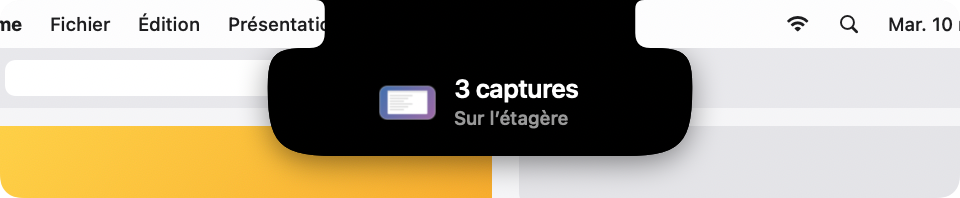
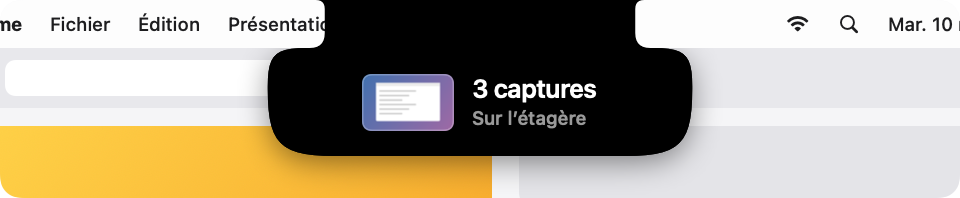
Capture d'écran sur l'étagère : la miniature à ses proportions, assez grande, coins arrondis
Retour de Hugues : dans la bulle « Capture d'écran · Sur l'étagère », l'image était minuscule et mal cadrée (une capture 16:10
tassée dans un carré de 38 pt : 38 × 24, lue à 96 px). Maintenant la hauteur des deux lignes (38 pt), la largeur selon ses
proportions (64 pt au plus, 26 au moins), lue à 192 px (Retina), coins de 6 pt et filet clair dessinés par la vue ; la place
du symbole de l'annonce suit cette largeur (mesure comprise). Rendus : ilot-14e et 14f (encoche), lucarne-ecran-capture
(verre, avec une fausse capture 16:10 dans le catalogue des écrans de l'essai).

Changed region(s): [[0.375, 0.3636, 0.625, 0.6667]]

diff --git a/Sources/Dictee/IlotEtagere.swift b/Sources/Dictee/IlotEtagere.swift
@@ -385,23 +385,16 @@ extension IlotControleur {
                                              ligne2: RafaleCaptures.sousTitre, vignette: Self.vignetteCapture(url), capture: url))
     }
 
-    /// La miniature d'une capture (lue à 96 px, coins arrondis, un filet clair) ; illisible : l'icône du Finder.
+    /// La miniature d'une capture : à ses proportions dans la place de l'annonce (`MiniatureCapture`), lue assez grande pour un écran
+    /// Retina (3 × sa largeur en pixels) ; illisible : l'icône du Finder. Les coins et le filet sont dessinés par la vue.
     nonisolated static func vignetteCapture(_ url: URL) -> NSImage {
-        let options: [CFString: Any] = [kCGImageSourceCreateThumbnailFromImageAlways: true, kCGImageSourceThumbnailMaxPixelSize: 96,
+        let options: [CFString: Any] = [kCGImageSourceCreateThumbnailFromImageAlways: true, kCGImageSourceThumbnailMaxPixelSize: Int(3 * MiniatureCapture.largeurMax),
                                         kCGImageSourceCreateThumbnailWithTransform: true]
         guard let s = CGImageSourceCreateWithURL(url as CFURL, nil), let cg = CGImageSourceCreateThumbnailAtIndex(s, 0, options as CFDictionary) else {
             return NSWorkspace.shared.icon(forFile: url.path)
         }
-        let echelle = ContenuAnnonce.coteIcone / CGFloat(max(cg.width, cg.height))
-        let taille = NSSize(width: CGFloat(cg.width) * echelle, height: CGFloat(cg.height) * echelle)
-        return NSImage(size: taille, flipped: false) { r in
-            let chemin = NSBezierPath(roundedRect: r.insetBy(dx: 0.5, dy: 0.5), xRadius: 5, yRadius: 5)
-            NSGraphicsContext.saveGraphicsState(); chemin.addClip()
-            NSImage(cgImage: cg, size: taille).draw(in: r)
-            NSGraphicsContext.restoreGraphicsState()
-            NSColor.white.withAlphaComponent(0.25).setStroke(); chemin.lineWidth = 1; chemin.stroke()
-            return true
-        }
+        let t = MiniatureCapture.taille(largeur: CGFloat(cg.width), hauteur: CGFloat(cg.height))
+        return NSImage(cgImage: cg, size: t)
     }
     /// macOS a refusé l'accès au dossier des captures : l'interrupteur revient sur éteint, la carte dit où le rendre.
     func capturesRefusees() {
@@ -1072,5 +1065,19 @@ struct RangeeEtagere: View {
         .background(RoundedRectangle(cornerRadius: 18, style: .continuous).fill(depot ? CouleursIlot.bleu.opacity(0.22) : Color.white.opacity(0.08)))
         .overlay(RoundedRectangle(cornerRadius: 18, style: .continuous).strokeBorder(Color.white.opacity(depot ? 0.85 : 0), lineWidth: 1.5))
         .animation(m.reduire || m.statique ? nil : .easeOut(duration: 0.2), value: depot)
+    }
+}
+
+/// La place de la miniature d'une capture dans l'annonce « Capture d'écran · Sur l'étagère » (Hugues 12/11 : « minuscule et mal
+/// cadrée » quand elle tenait dans un carré de 38 pt, soit 38 × 24 pour une capture 16:10) : la hauteur des deux lignes de texte (38 pt),
+/// la largeur selon ses proportions, au plus 64 pt (une capture très large garde ses proportions en perdant de la hauteur), au moins 26 pt
+/// (une capture très haute).
+enum MiniatureCapture {
+    static let hauteur: CGFloat = 38, largeurMax: CGFloat = 64, largeurMin: CGFloat = 26, rayon: CGFloat = 6
+    static func taille(largeur l: CGFloat, hauteur h: CGFloat) -> CGSize {
+        guard l > 0, h > 0 else { return CGSize(width: hauteur, height: hauteur) }
+        let r = l / h
+        let largeur = min(largeurMax, max(largeurMin, (hauteur * r).rounded()))
+        return CGSize(width: largeur, height: min(hauteur, (largeur / r).rounded()))
     }
 }

diff --git a/Sources/Dictee/IlotAnnonces.swift b/Sources/Dictee/IlotAnnonces.swift
@@ -37,6 +37,9 @@ struct ContenuAnnonce {
     /// À la place du symbole : des icônes du Finder (le fichier arrivé ; deux en pile pour une rafale), sur `coteSymbole` pt.
     var icones: [NSImage] = []
     var coteSymbole: CGFloat = ContenuAnnonce.cote
+    /// La largeur de la place du symbole quand elle n'est pas carrée (la miniature d'une capture d'écran, à ses proportions) ; nil : carrée.
+    var largeurSymbole: CGFloat? = nil
+    var largeurIcone: CGFloat { largeurSymbole ?? coteSymbole }
     /// Un nom de fichier se coupe au milieu (« Rapport-annuel…-v3.pdf » : on garde l'extension).
     var coupureL1: Text.TruncationMode = .tail
     /// Le fichier qu'on peut glisser hors du bandeau (icône et nom).
@@ -207,8 +210,10 @@ extension IlotMoteur {
             let nom = b.capture?.lastPathComponent
             var f = etagere.last { $0.nom == nom }
             if let v = b.vignette { f?.icone = v }
+            // la miniature à ses proportions (une capture est large : 16:10), pas tassée dans un carré
             return ContenuAnnonce(glyphe: GlypheIlot(nom: "camera.viewfinder", couleur: .white, taille: 21), l1: b.ligne1, l2: b.ligne2,
-                                  icones: b.vignette.map { [$0] } ?? [], coteSymbole: ContenuAnnonce.coteIcone, source: f)
+                                  icones: b.vignette.map { [$0] } ?? [], coteSymbole: ContenuAnnonce.coteIcone,
+                                  largeurSymbole: b.vignette.map { MiniatureCapture.taille(largeur: $0.size.width, hauteur: $0.size.height).width }, source: f)
         case .claudeAttend:
             // « second-cerveau attend ta réponse », et les premiers mots de sa question (le message de la notification de Claude Code)
             let s = b?.claude
@@ -333,7 +338,7 @@ extension IlotMoteur {
         // le rendez-vous qui commence : la ligne du haut, ou les deux boutons de même largeur dessous (le plus large des deux)
         if v == .agendaDebut, let e = rdvVu {
             let bs = ContenuAgenda.boutonsDebut(e)
-            let haut = c.coteSymbole + ContenuAnnonce.espace + max(MesureIlot.texte(c.l1, 17, .semibold, interlettre: ContenuAnnonce.interlettreL1), MesureIlot.texte(c.l2, 12.5, .medium))
+            let haut = c.largeurIcone + ContenuAnnonce.espace + max(MesureIlot.texte(c.l1, 17, .semibold, interlettre: ContenuAnnonce.interlettreL1), MesureIlot.texte(c.l2, 12.5, .medium))
                 + ContenuAnnonce.espace + MesureIlot.texte(FormatIlot.heure(e.debut), 13, .semibold, chiffres: true)
             return max(haut, MesureIlot.boutons(bs, memeLargeur: true))
         }
@@ -341,7 +346,7 @@ extension IlotMoteur {
         let l2 = v == .reunionPrepare ? PreparationNote.etapes.max { MesureIlot.texte($0, 12.5, .medium) < MesureIlot.texte($1, 12.5, .medium) } ?? c.l2 : c.l2
         let textes = max(MesureIlot.texte(c.l1, 17, .semibold, interlettre: ContenuAnnonce.interlettreL1), MesureIlot.texte(l2, 12.5, .medium))
         // sans symbole, « Note en préparation… » commence au bord (le pourcentage est sur la ligne du titre)
-        var l = c.progres == nil ? c.coteSymbole + ContenuAnnonce.espace + textes : textes
+        var l = c.progres == nil ? c.largeurIcone + ContenuAnnonce.espace + textes : textes
         switch c.droite {
         case .rien: break
         case .meta(let t): l += ContenuAnnonce.espace + MesureIlot.texte(v == .reunionPrepare ? PreparationNote.pourcent(1) : t, 13, .semibold, chiffres: true)

diff --git a/Sources/Dictee/IlotVues.swift b/Sources/Dictee/IlotVues.swift
@@ -261,12 +261,19 @@ struct IlotCalques: View {
         let z = g.zoneAnnonce(v, haut: v.estAlerte ? 20 : 16, bas: v.estAlerte ? 20 : 16)
         return HStack(spacing: ContenuAnnonce.espace) {
             Group {
-                if !c.icones.isEmpty { IconesFichiers(icones: c.icones, cote: c.coteSymbole) }
+                if c.largeurSymbole != nil, let i = c.icones.first {
+                    // la miniature d'une capture : à ses proportions, coins arrondis, un filet clair (elle remplit sa place)
+                    Image(nsImage: i).resizable().interpolation(.high).aspectRatio(contentMode: .fill)
+                        .frame(width: c.largeurIcone, height: MiniatureCapture.taille(largeur: i.size.width, hauteur: i.size.height).height)
+                        .clipShape(RoundedRectangle(cornerRadius: MiniatureCapture.rayon, style: .continuous))
+                        .overlay { RoundedRectangle(cornerRadius: MiniatureCapture.rayon, style: .continuous).strokeBorder(Color.white.opacity(0.25), lineWidth: 1) }
+                        .accessibilityHidden(true)
+                } else if !c.icones.isEmpty { IconesFichiers(icones: c.icones, cote: c.coteSymbole) }
                 else if c.etoile { EtoileClaude(couleur: CouleursIlot.corail).frame(width: 21, height: 21) }
                 else if c.reveil { ClocheSecouee(taille: 23, sonnerie: m.reduire || m.statique ? nil : m.sonnerieReveil, symbole: "alarm", couleur: CouleursIlot.ambre) }
                 else if let glyphe = c.glyphe { glyphe } else { Color.clear }
             }
-            .frame(width: c.coteSymbole, height: c.coteSymbole)
+            .frame(width: c.largeurIcone, height: c.coteSymbole)
             .scaleEffect(c.source != nil && m.miniatureSurvolee ? 1.15 : 1)
             .animation(m.reduire ? nil : .spring(response: 0.25, dampingFraction: 0.75), value: m.miniatureSurvolee)
             .glisserFichier(c.glisser, m)

diff --git a/Sources/Dictee/IlotEssaiPlacesLucarne.swift b/Sources/Dictee/IlotEssaiPlacesLucarne.swift
@@ -307,7 +307,15 @@ enum CatalogueLucarne {
                 var r = ReunionIlot(); r.depuis = t0.addingTimeInterval(-754); m.reunion = r; m.donneesChangees(); m.clicForme()
             },
             Ecran(nom: "annonce capture", vue: .etagereCapture) { m in
-                m.annoncer(bandeau: BandeauIlot(vue: .etagereCapture, jusqua: t0.addingTimeInterval(60), ligne1: "Capture d\u{2019}écran", ligne2: RafaleCaptures.sousTitre))
+                // une fausse capture 16:10 (dessinée, aucun fichier) : sa miniature à ses proportions, comme une vraie
+                let t = MiniatureCapture.taille(largeur: 1600, hauteur: 1000)
+                let vignette = NSImage(size: t, flipped: false) { r in
+                    NSGradient(starting: NSColor(calibratedRed: 0.20, green: 0.36, blue: 0.62, alpha: 1), ending: NSColor(calibratedRed: 0.55, green: 0.32, blue: 0.58, alpha: 1))?.draw(in: r, angle: -35)
+                    NSColor.white.setFill(); NSBezierPath(roundedRect: r.insetBy(dx: r.width * 0.15, dy: r.height * 0.17), xRadius: 2, yRadius: 2).fill()
+                    return true
+                }
+                m.annoncer(bandeau: BandeauIlot(vue: .etagereCapture, jusqua: t0.addingTimeInterval(60), ligne1: "Capture d\u{2019}écran", ligne2: RafaleCaptures.sousTitre,
+                                                vignette: vignette))
             },
             Ecran(nom: "annonce rappel (Rappels d'Apple ?)", vue: .lucarne) { m in
                 m.annoncer(bandeau: BandeauIlot(vue: .lucarne, jusqua: t0.addingTimeInterval(60), ligne1: "", ligne2: "", lucarne: .questionRappelsApple))
